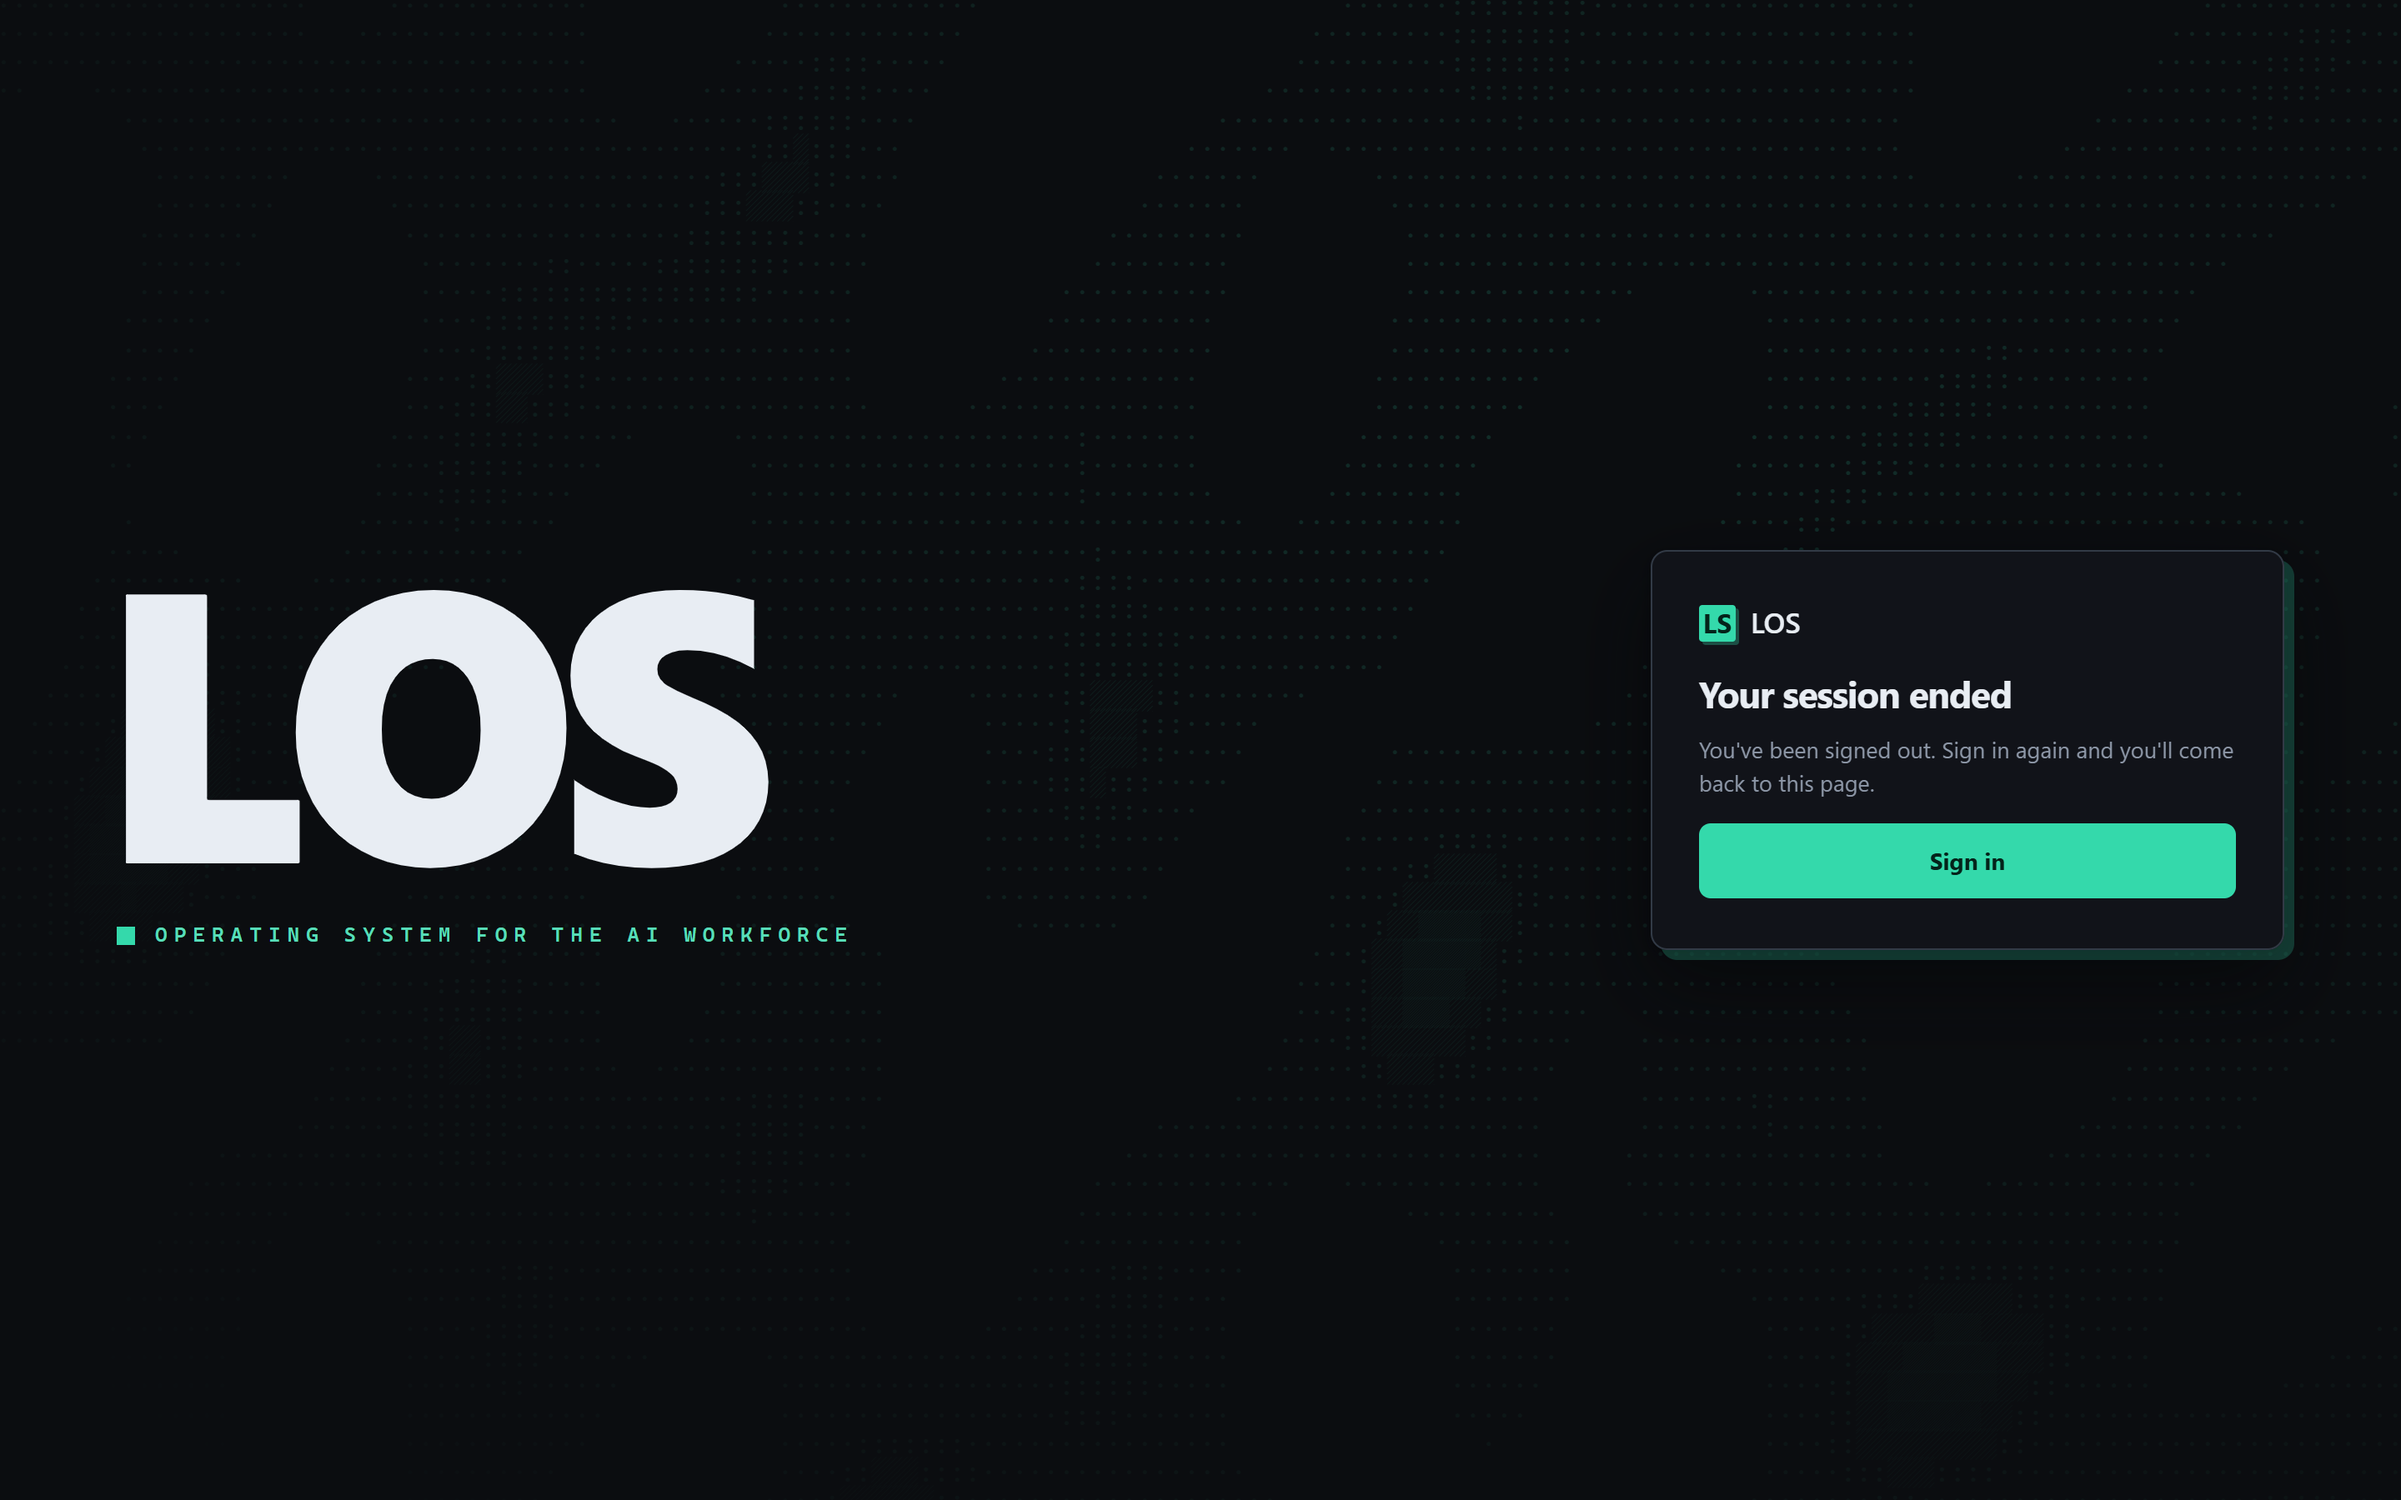
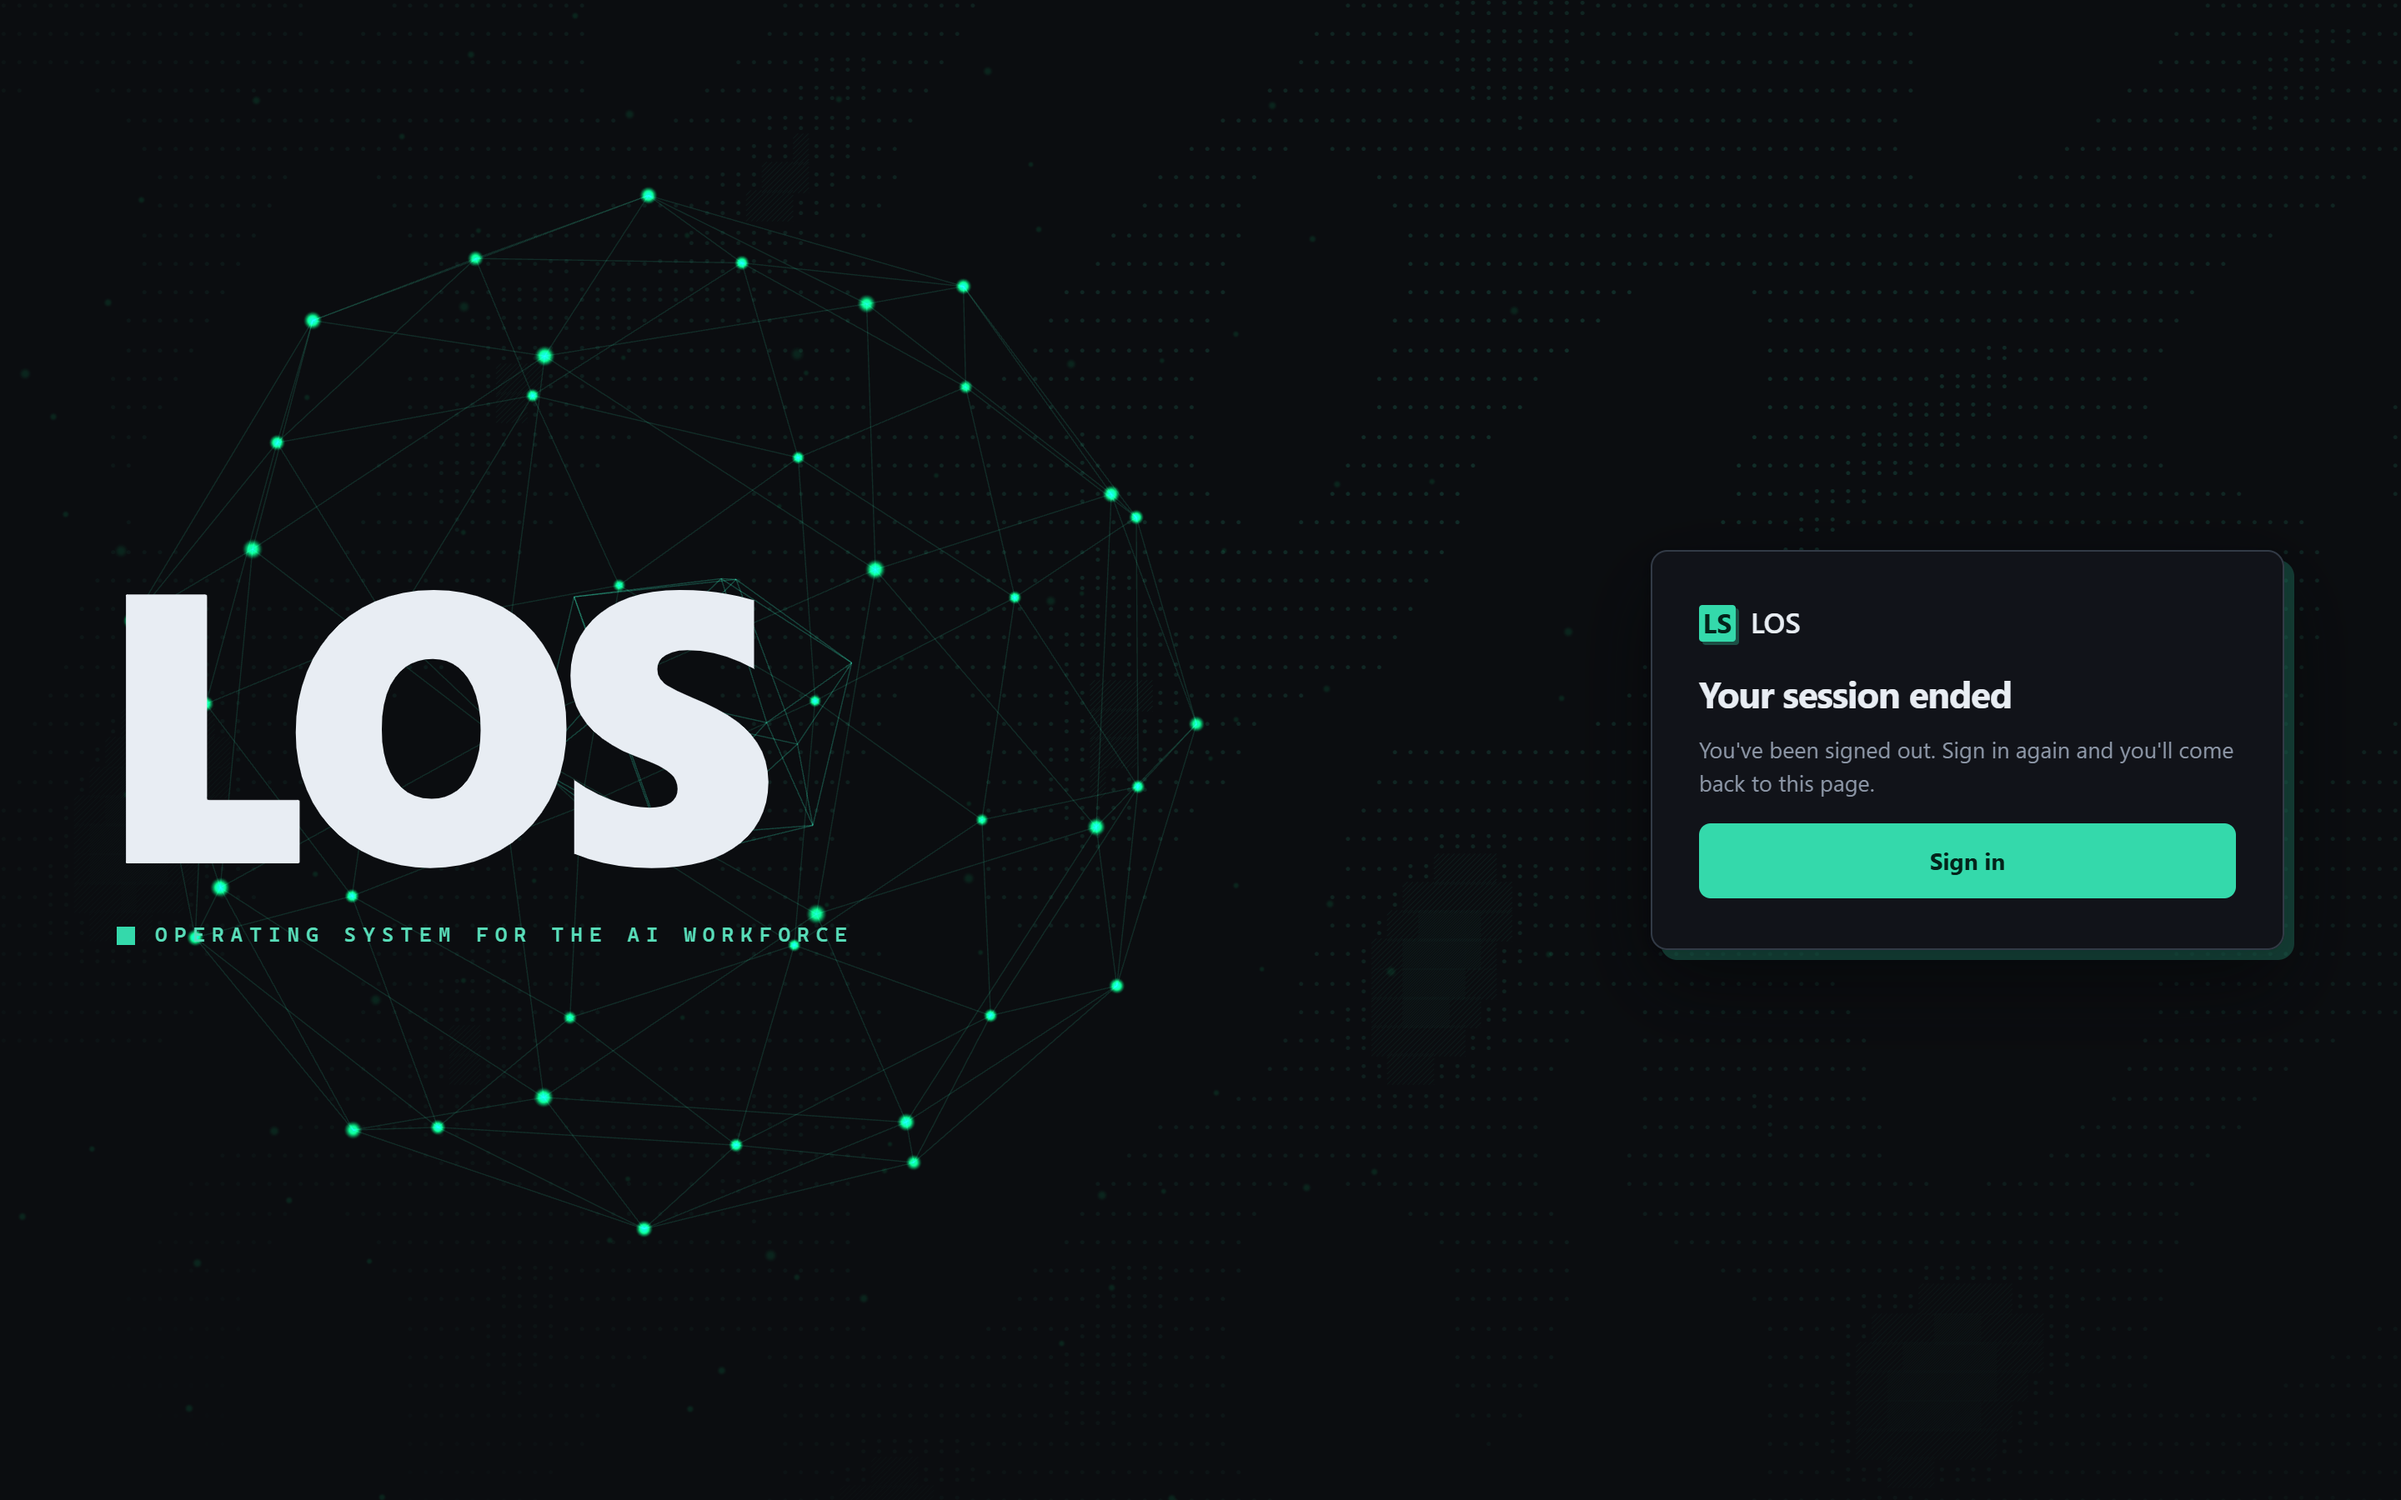
Add sign-in constellation hero, EU-compliant leaderboard default, compliance docs
Lazy-loaded procedural three.js core behind the sign-in wordmark: wireframe
icosahedron lattice with glow-dot vertices and halo in the runtime brand
accent; reduced-motion static frame, tab-visibility pause, full disposal on
unmount, WebGL fail-open to the ASCII field. Separate 516 kB chunk loads only
on the auth gate. Leaderboard now aggregates to teams by default; ranking
named individuals requires UTB_LEADERBOARD=named (works-council posture),
documented with GDPR and AI Act obligations in docs/compliance.md.

diff --git a/plugins/web-ui/src/signin-hero.ts b/plugins/web-ui/src/signin-hero.ts
@@ -38,6 +38,26 @@ function shellGeometry(count: number, inner: number, outer: number): THREE.Buffe
   return geometry;
 }
 
+const DOT_VERTEX = `
+uniform float uSize;
+uniform float uScale;
+void main() {
+  vec4 mv = modelViewMatrix * vec4(position, 1.0);
+  gl_PointSize = uSize * uScale / -mv.z;
+  gl_Position = projectionMatrix * mv;
+}
+`;
+
+const DOT_FRAGMENT = `
+uniform vec3 uColor;
+uniform float uOpacity;
+void main() {
+  float d = length(gl_PointCoord - vec2(0.5));
+  float a = smoothstep(0.5, 0.08, d);
+  gl_FragColor = vec4(uColor, a * uOpacity);
+}
+`;
+
 export function mountSigninHero(host: HTMLElement): () => void {
   let renderer: THREE.WebGLRenderer;
   try {
@@ -61,26 +81,34 @@ export function mountSigninHero(host: HTMLElement): () => void {
       blending: THREE.AdditiveBlending,
       depthWrite: false,
     });
-  const pointMat = (size: number, opacity: number) =>
-    new THREE.PointsMaterial({
-      color: accent,
-      size,
+  const dotMats: THREE.ShaderMaterial[] = [];
+  const pointMat = (size: number, opacity: number) => {
+    const mat = new THREE.ShaderMaterial({
+      uniforms: {
+        uColor: { value: accent },
+        uSize: { value: size },
+        uScale: { value: 1 },
+        uOpacity: { value: opacity },
+      },
+      vertexShader: DOT_VERTEX,
+      fragmentShader: DOT_FRAGMENT,
       transparent: true,
-      opacity,
       blending: THREE.AdditiveBlending,
       depthWrite: false,
-      sizeAttenuation: true,
     });
+    dotMats.push(mat);
+    return mat;
+  };
 
-  const latticeGeo = new THREE.WireframeGeometry(new THREE.IcosahedronGeometry(1.5, 1));
-  const nucleusGeo = new THREE.WireframeGeometry(new THREE.IcosahedronGeometry(0.5, 0));
-  const vertexGeo = mergeVertices(new THREE.IcosahedronGeometry(1.5, 1));
-  const haloGeo = shellGeometry(200, 2, 3.1);
+  const latticeGeo = new THREE.WireframeGeometry(new THREE.IcosahedronGeometry(1.35, 1));
+  const nucleusGeo = new THREE.WireframeGeometry(new THREE.IcosahedronGeometry(0.45, 0));
+  const vertexGeo = mergeVertices(new THREE.IcosahedronGeometry(1.35, 1));
+  const haloGeo = shellGeometry(110, 1.75, 2.55);
 
   const lattice = new THREE.LineSegments(latticeGeo, lineMat(0.15));
-  const nucleus = new THREE.LineSegments(nucleusGeo, lineMat(0.32));
-  const vertexPoints = new THREE.Points(vertexGeo, pointMat(0.05, 0.55));
-  const halo = new THREE.Points(haloGeo, pointMat(0.028, 0.24));
+  const nucleus = new THREE.LineSegments(nucleusGeo, lineMat(0.28));
+  const vertexPoints = new THREE.Points(vertexGeo, pointMat(0.048, 0.34));
+  const halo = new THREE.Points(haloGeo, pointMat(0.026, 0.15));
 
   const core = new THREE.Group();
   core.add(lattice, nucleus, vertexPoints, halo);
@@ -104,10 +132,13 @@ export function mountSigninHero(host: HTMLElement): () => void {
   const resize = () => {
     const w = host.clientWidth || 1;
     const h = host.clientHeight || 1;
-    renderer.setPixelRatio(Math.min(window.devicePixelRatio || 1, 2));
+    const ratio = Math.min(window.devicePixelRatio || 1, 2);
+    renderer.setPixelRatio(ratio);
     renderer.setSize(w, h, false);
     camera.aspect = w / h;
     camera.updateProjectionMatrix();
+    const scale = (h * ratio) / (2 * Math.tan((camera.fov * Math.PI) / 360));
+    for (const m of dotMats) m.uniforms.uScale.value = scale;
     const halfW = Math.tan((camera.fov * Math.PI) / 360) * camera.position.z * camera.aspect;
     core.position.set(camera.aspect > 1 ? -halfW * 0.42 : 0, 0.1, 0);
     renderer.render(scene, camera);

diff --git a/src/api/routes/admin/observability.ts b/src/api/routes/admin/observability.ts
@@ -474,6 +474,8 @@ export async function deleteUtbAllocation(ctx: ApiCtx): Promise<void> {
   return sendJson(res, 200, { ok: true });
 }
 
+const LEADERBOARD_MODE = process.env.UTB_LEADERBOARD === "named" ? "named" : "teams";
+
 export async function utbLeaderboard(ctx: ApiCtx): Promise<void> {
   const { res, deps, url } = ctx;
   const authz = await requireScopedAdmin(ctx);
@@ -523,7 +525,37 @@ export async function utbLeaderboard(ctx: ApiCtx): Promise<void> {
     const bCost = b.costPerOutcomeUsd ?? Infinity;
     return aCost - bCost || (b.cacheReadShare ?? 0) - (a.cacheReadShare ?? 0) || a.costUsd - b.costUsd;
   });
-  return sendJson(res, 200, { since, scopeId: scope, rows });
+  if (LEADERBOARD_MODE === "named") return sendJson(res, 200, { since, scopeId: scope, mode: "named", rows });
+  const teamsRollup = new Map<
+    string,
+    { members: number; calls: number; totalTokens: number; costUsd: number; produced: number; cacheWeighted: number }
+  >();
+  for (const row of rows) {
+    const key = row.teamId ?? "unassigned";
+    const t = teamsRollup.get(key) ?? { members: 0, calls: 0, totalTokens: 0, costUsd: 0, produced: 0, cacheWeighted: 0 };
+    t.members += 1;
+    t.calls += row.calls;
+    t.totalTokens += row.totalTokens;
+    t.costUsd += row.costUsd;
+    t.produced += row.outcomes
+      ? row.outcomes["code-pushed"] + row.outcomes.artifact + row.outcomes["sent-internal"]
+      : 0;
+    t.cacheWeighted += (row.cacheReadShare ?? 0) * row.totalTokens;
+    teamsRollup.set(key, t);
+  }
+  const teamRows = [...teamsRollup.entries()]
+    .map(([teamId, t]) => ({
+      teamId,
+      members: t.members,
+      calls: t.calls,
+      totalTokens: t.totalTokens,
+      costUsd: t.costUsd,
+      costPerOutcomeUsd: t.produced > 0 ? t.costUsd / t.produced : null,
+      cacheReadShare: t.totalTokens > 0 ? t.cacheWeighted / t.totalTokens : null,
+      outcomesProduced: t.produced,
+    }))
+    .sort((a, b) => (a.costPerOutcomeUsd ?? Infinity) - (b.costPerOutcomeUsd ?? Infinity) || a.costUsd - b.costUsd);
+  return sendJson(res, 200, { since, scopeId: scope, mode: "teams", rows: teamRows });
 }
 
 const AUDIT_EXPORT_LIMIT = 50_000;

diff --git a/docs/compliance.md b/docs/compliance.md
@@ -1,0 +1,59 @@
+# Workforce metering and EU compliance
+
+LOS meters AI usage attributed to named employees. That is powerful and, handled
+carelessly, legally dangerous in the EU. This page states what LOS collects, the
+defaults that keep deployments defensible, and the operator's obligations.
+
+## What the ledger contains — and what it never contains
+
+Every row is metadata: timestamp, principal, scope, model, phase, source, token
+counts, cost. The ledger never stores prompt or response content. The OTel
+ingestion endpoint (`/v1/ingest/otel`) extracts the same metadata fields from
+external telemetry and discards everything else.
+
+## Product defaults (worker-protective by design)
+
+- **Self-view first.** Every person can see their own complete meter
+  (`GET /v1/usage`) — the same numbers any admin would see about them.
+  Transparency to the data subject is the foundation of GDPR Art. 5(1)(a) and
+  Art. 88 workplace processing.
+- **Team-level ranking by default.** The leaderboard aggregates to teams unless
+  the operator explicitly sets `UTB_LEADERBOARD=named`. Ranking identified
+  individuals by productivity metrics is the configuration most likely to
+  require works-council agreement (e.g. German BetrVG §87(1)(6) — technical
+  systems capable of monitoring performance) and a DPIA; make that a conscious,
+  documented decision, not a default.
+- **Individual drill-downs are admin-gated and audited.** Reading a person's
+  usage requires a scoped admin grant, and the read itself lands in the audit
+  log (`utb.read`, `utb.leaderboard.read`, `fleet.read`), so oversight is
+  itself overseen.
+- **Shared-channel disclosure is blocked.** Per-principal spend endpoints are on
+  the capability-token denial list for shared scopes — an agent cannot be
+  tricked into posting someone's spend into a channel.
+- **Budgets refuse turns; they do not report people.** Hard allocations act on
+  the request, not the person; soft ones warn operators.
+
+## Operator obligations (not optional in the EU)
+
+1. **Inform employees before deployment**: what is metered, why (cost
+   allocation and capacity planning are legitimate interests; covert
+   performance evaluation is not), retention, and who can see what. Update the
+   privacy notice / Art. 13 information.
+2. **Involve the works council where one exists** before enabling
+   `UTB_LEADERBOARD=named` or using ledger data in any evaluation context.
+3. **Run a DPIA** if usage data will feed decisions about individuals
+   (Art. 35 — systematic monitoring).
+4. **Retention**: set the retention policy for `token_ledger`, `run_outcomes`,
+   and the audit log to what your notice states. Cost data rarely needs
+   identified retention beyond 12–24 months; aggregate afterwards.
+5. **AI Act Article 12/26**: for high-risk uses, deployers must retain
+   automatically generated logs. `GET /v1/admin/audit/export` produces the
+   lifecycle log export; ledger and audit rows carry timestamps and actor
+   identity for traceability.
+
+## The stance in one sentence
+
+Meter the work, not the worker: spend attribution exists to allocate budgets
+and prove value, employees always see their own data first, and any
+configuration that ranks named individuals is an explicit, documented,
+works-council-cleared choice.
